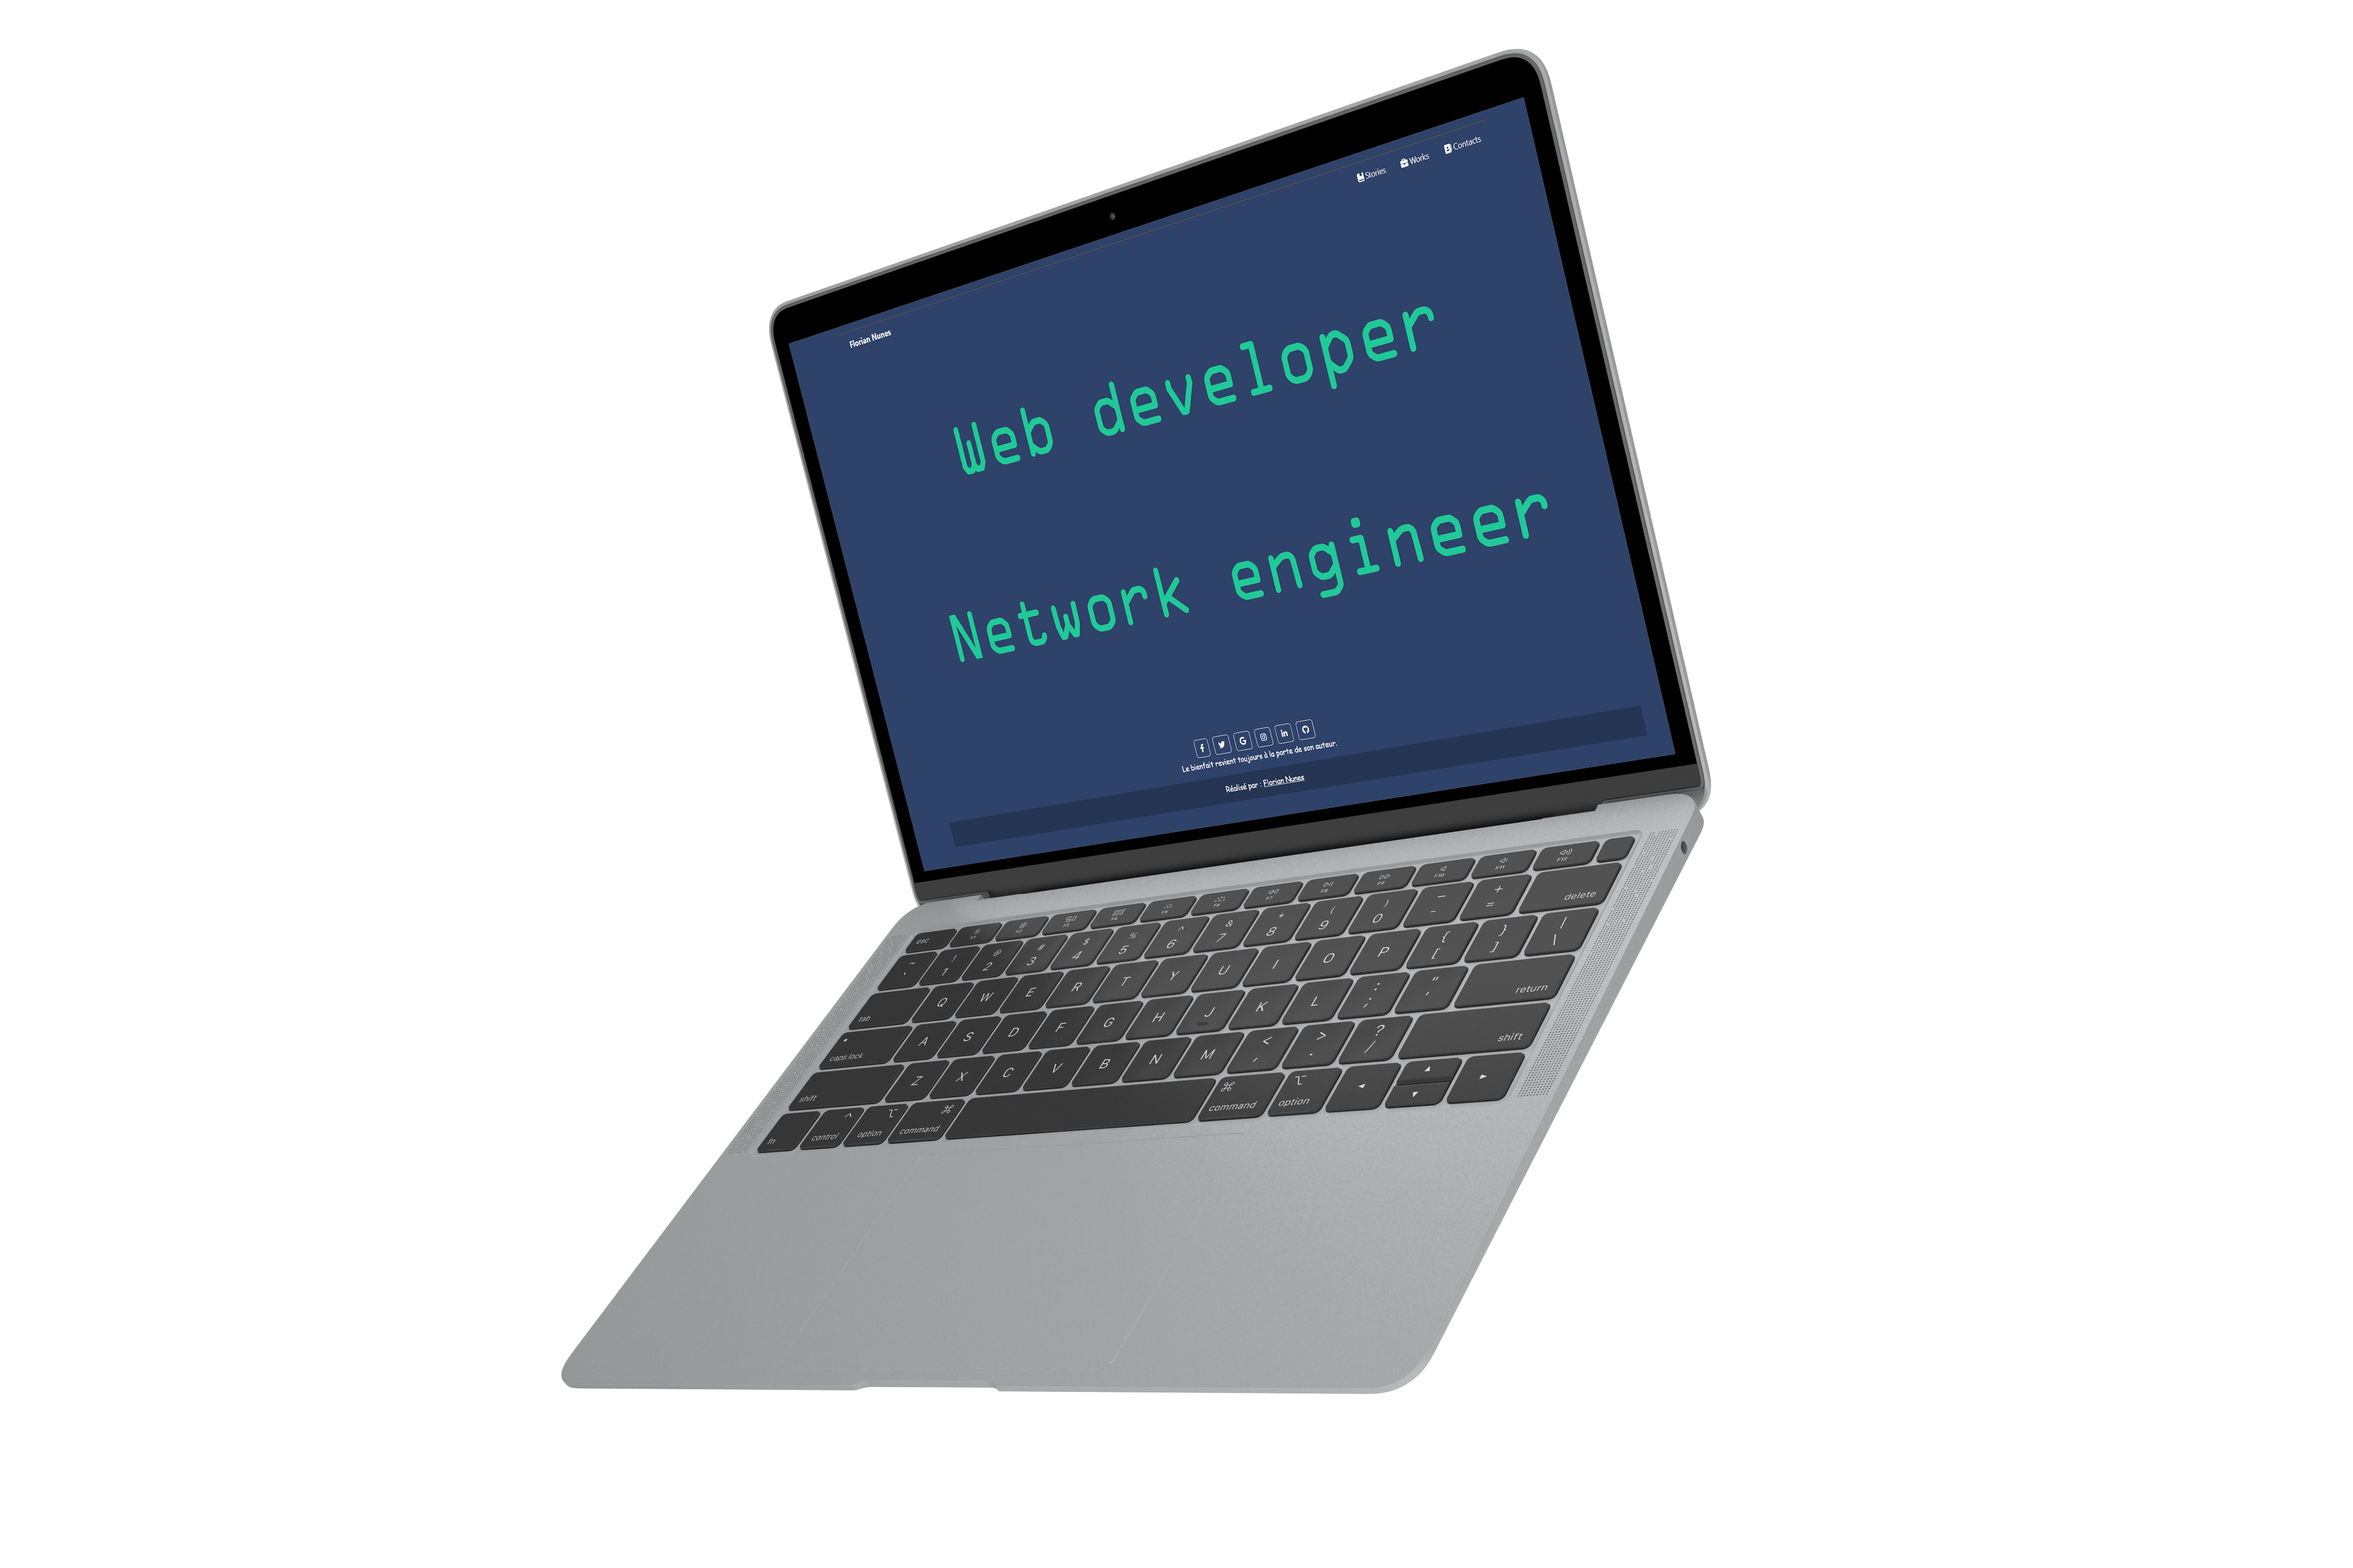
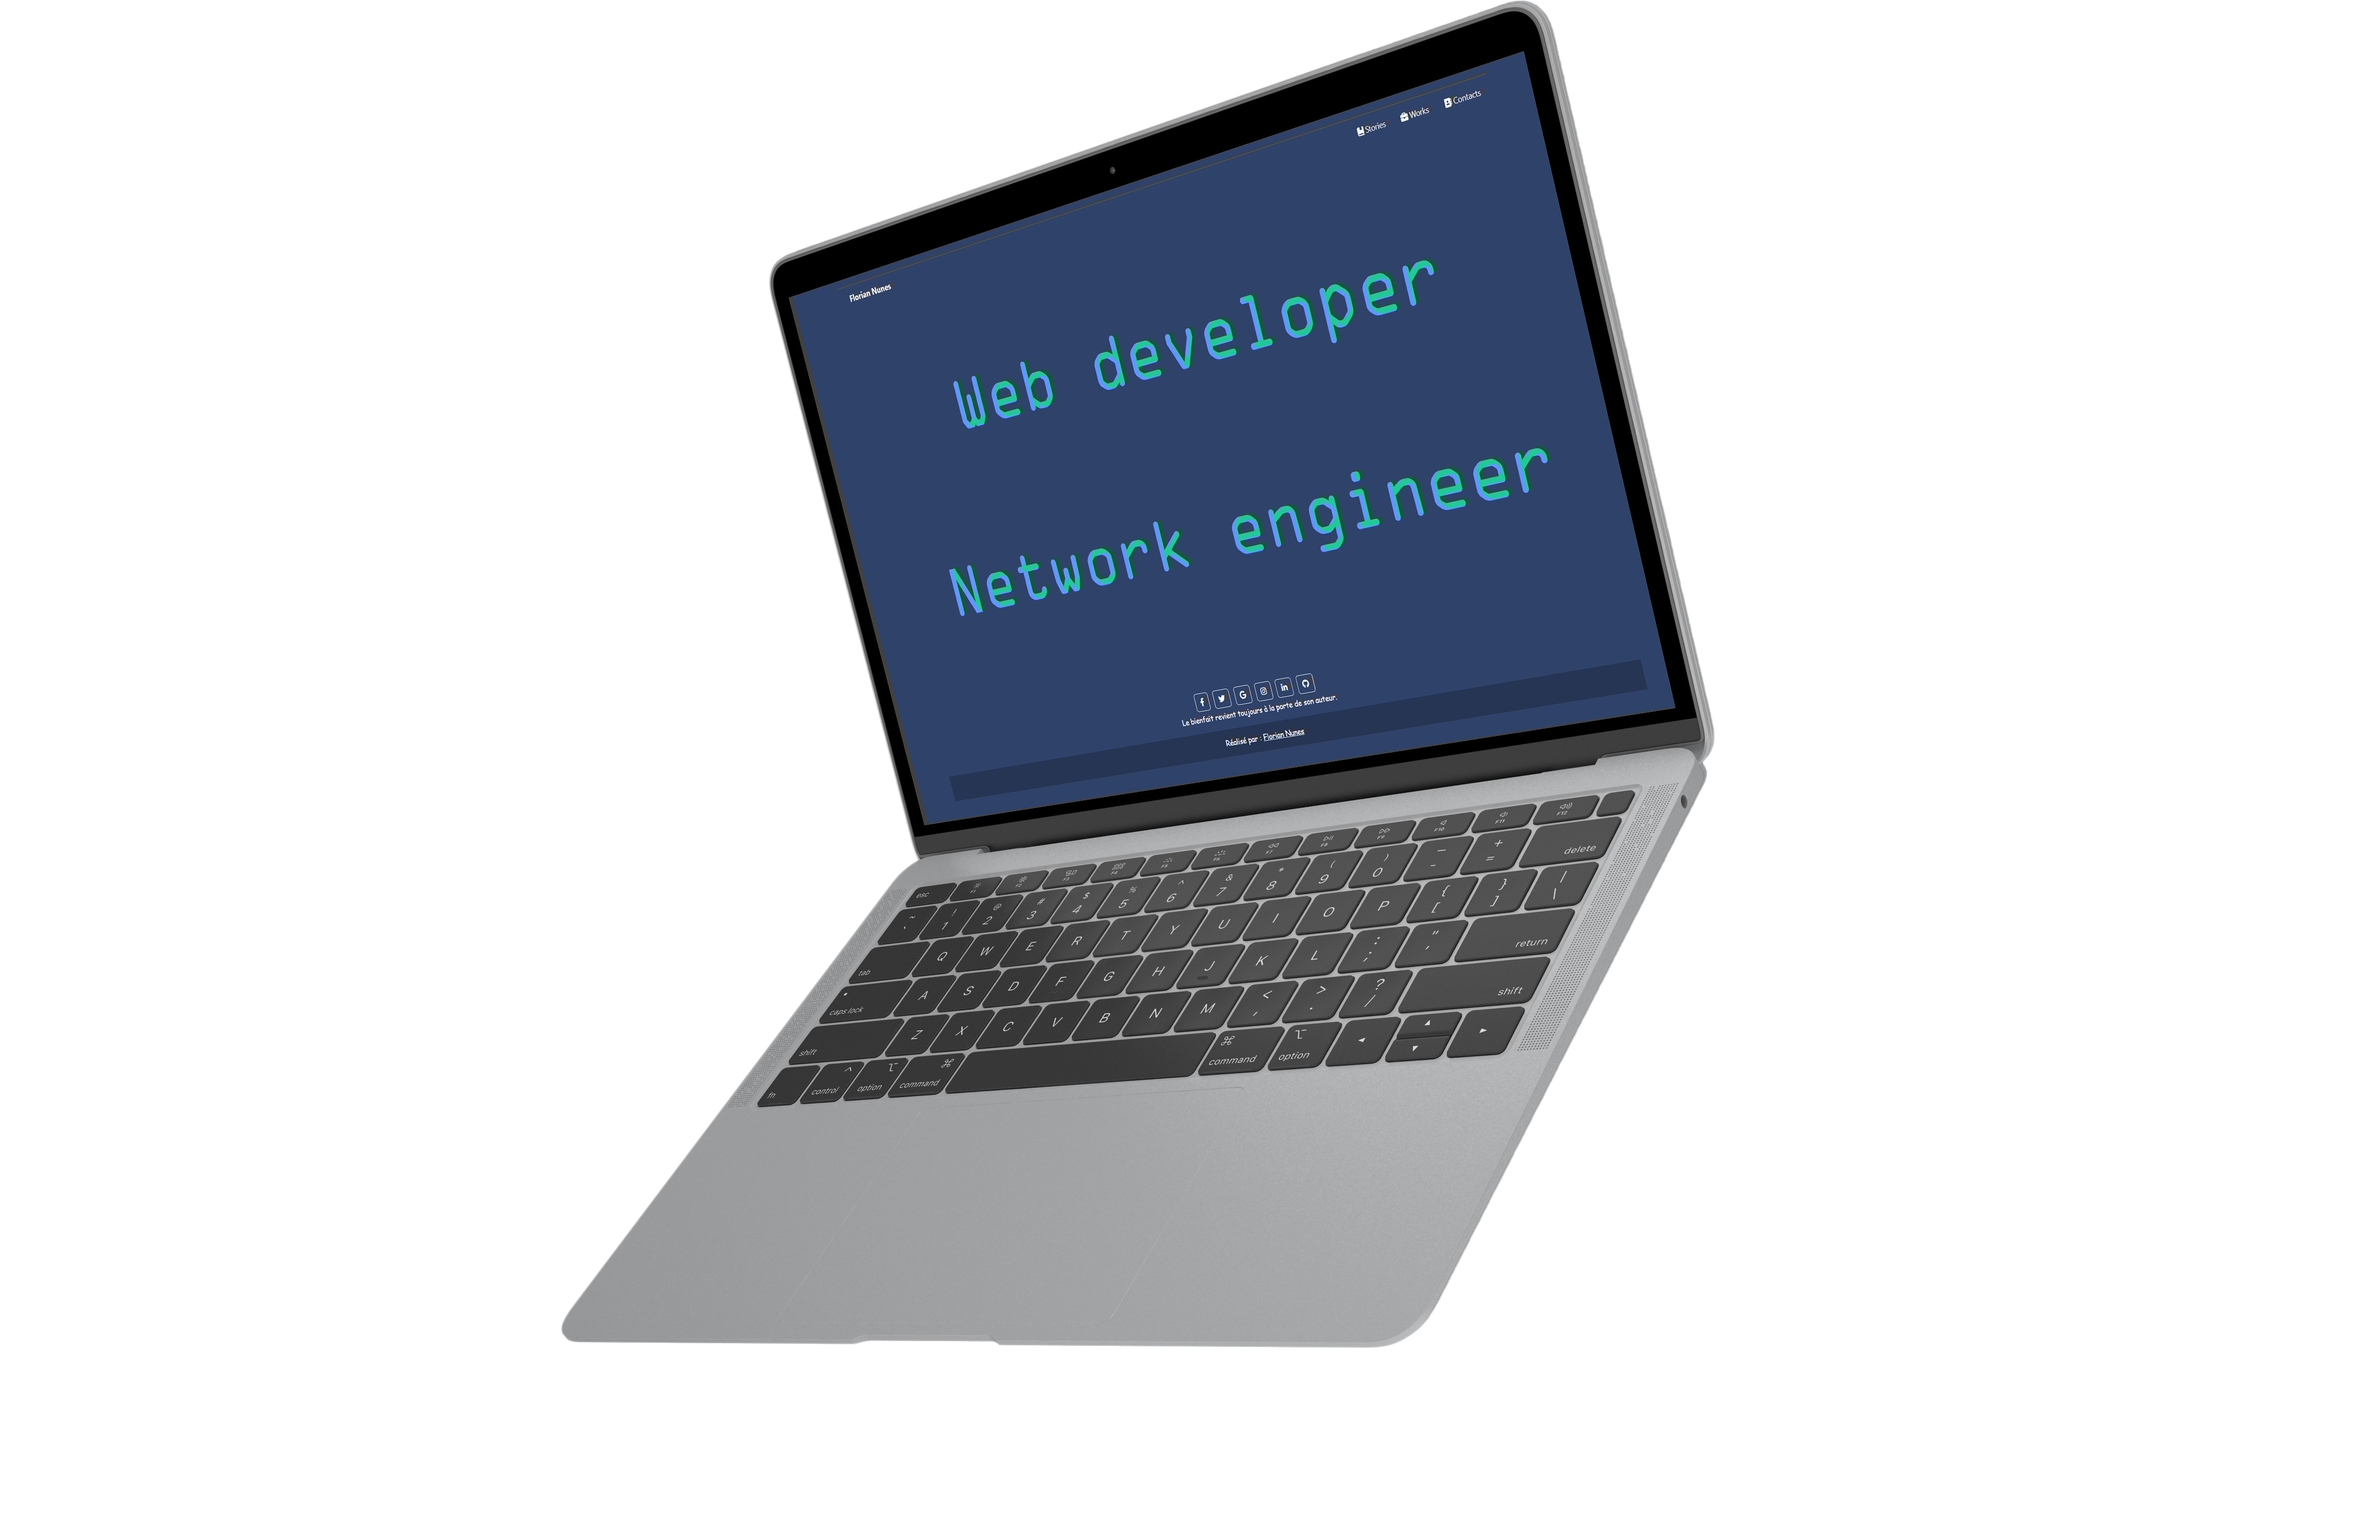
upimg

diff --git a/index.html b/index.html
@@ -58,7 +58,7 @@
 
     <main>
       <section class="container min-h-container">
-          <img src="img/Ordi.png" alt="Ordinateur">
+        <img src="img/Ordi.png" alt="Ordinateur">
       </section>
 
       <section>

diff --git a/css/home.css b/css/home.css
@@ -3,10 +3,9 @@
     display: flex;
     justify-content: center;
 }
-
 .container img{
     height: 100%;
-    max-height: calc(100vh - 212px);
+    max-height: calc(110vh - 212px);
 }
 .Aboutme{
     margin: auto;
